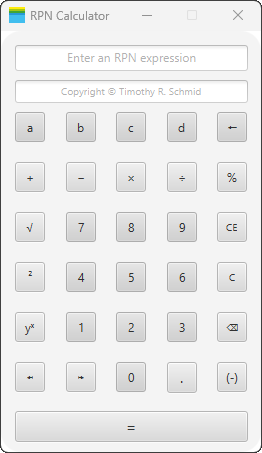
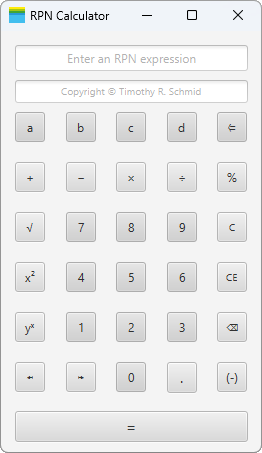
Make '%' distinct from 'mod' and 'rem'

diff --git a/src/test/java/ch/bztf/RPNCalcTest.java b/src/test/java/ch/bztf/RPNCalcTest.java
@@ -91,20 +91,22 @@ public class RPNCalcTest {
 
     @Test
     public void testEvaluatingUnaryExpressionReturnsCorrectResult() throws RPNCalcException {
-        assertEquals(-6.0, calc.eval("6 neg"),    delta);
-        assertEquals( 0.9, calc.eval("-0.9 abs"), delta);
-        assertEquals(25.0, calc.eval("5 pow2"),   delta);
-        assertEquals(12.0, calc.eval("144 sqrt"), delta);
+        assertEquals(-0.01, calc.eval("-1 %"),     delta);
+        assertEquals( -6.0, calc.eval("6 neg"),    delta);
+        assertEquals(  0.9, calc.eval("-0.9 abs"), delta);
+        assertEquals( 25.0, calc.eval("5 pow2"),   delta);
+        assertEquals( 12.0, calc.eval("144 sqrt"), delta);
     }
 
     @Test
     public void testEvaluatingBinaryExpressionReturnsCorrectResult() throws RPNCalcException {
-        assertEquals( 5.0, calc.eval("2 3 +"),   delta);
-        assertEquals(-1.0, calc.eval("2 3 -"),   delta);
-        assertEquals( 1.5, calc.eval("3 2 /"),   delta);
-        assertEquals(12.0, calc.eval("4 3 *"),   delta);
-        assertEquals( 2.0, calc.eval("10 4 %"),  delta);
-        assertEquals( 8.0, calc.eval("2 3 pow"), delta);
+        assertEquals( 5.0, calc.eval("2 3 +"),     delta);
+        assertEquals(-1.0, calc.eval("2 3 -"),     delta);
+        assertEquals( 1.5, calc.eval("3 2 /"),     delta);
+        assertEquals(12.0, calc.eval("4 3 *"),     delta);
+        assertEquals( 3.0, calc.eval("-21 4 mod"), delta);
+        assertEquals(-1.0, calc.eval("-21 4 rem"), delta);
+        assertEquals( 8.0, calc.eval("2 3 pow"),   delta);
     }
 
     @Test
@@ -136,7 +138,7 @@ public class RPNCalcTest {
     public void testEvaluatingExpressionIgnoresExtraneousWhitespace() throws RPNCalcException {
         assertEquals(1.0, calc.eval(" 1 1 *"),         delta); // Leading
         assertEquals(5.0, calc.eval("20 4 / "),        delta); // Trailing
-        assertEquals(1.0, calc.eval(" 11 5 % "),       delta); // Surrounding
+        assertEquals(1.0, calc.eval(" 11 5 rem "),     delta); // Surrounding
         assertEquals(4.0, calc.eval("1024   1020\t-"), delta); // Inbetween
     }
 

diff --git a/src/main/java/ch/bztf/App.java b/src/main/java/ch/bztf/App.java
@@ -57,18 +57,18 @@ public class App extends Application {
     public void start(Stage stage) throws Exception {
 
         /* Load FXML */
-        final FXMLLoader loader = new FXMLLoader(getClass().getResource("/ch/bztf/calc.fxml"));
-        final Parent root = loader.load();
+        FXMLLoader loader = new FXMLLoader(getClass().getResource("/ch/bztf/calc.fxml"));
+        Parent root = loader.load();
 
         /* Inject calculator instance into controller */
-        final CalcController controller = loader.<CalcController>getController();
+        CalcController controller = loader.<CalcController>getController();
         controller.initialize(makeCalcInstance());
 
         /* Enable proportional scaling */
         final double baseWidth = root.prefWidth(-1);
         final double baseHeight = root.prefHeight(-1);
-        final Group scaledGroup = new Group(root);
-        final StackPane scaledRoot = new StackPane(scaledGroup);
+        Group scaledGroup = new Group(root);
+        StackPane scaledRoot = new StackPane(scaledGroup);
         root.scaleXProperty().bind(
             Bindings.min(
                 scaledRoot.widthProperty().divide(baseWidth),
@@ -78,7 +78,7 @@ public class App extends Application {
         root.scaleYProperty().bind(root.scaleXProperty());
 
         /* Set window properties */
-        final Scene scene = new Scene(scaledRoot, baseWidth, baseHeight);
+        Scene scene = new Scene(scaledRoot, baseWidth, baseHeight);
         stage.setScene(scene);
         stage.setTitle("RPN Calculator");
         stage.setResizable(true);
@@ -91,7 +91,7 @@ public class App extends Application {
             new Image(getClass().getResourceAsStream("/ch/bztf/icon-128.png"))
         );
 
-        /* Add extra CSS stylesheets */
+        /* Add custom CSS stylesheet */
         scene.getStylesheets().add(
             getClass().getResource("/ch/bztf/calc.css").toExternalForm()
         );

diff --git a/src/main/java/ch/bztf/RPNCalc.java b/src/main/java/ch/bztf/RPNCalc.java
@@ -257,6 +257,7 @@ public class RPNCalc {
      */
     private boolean isUnary(String op) {
         switch (op) {
+            case "%":
             case "neg":
             case "abs":
             case "pow2":
@@ -280,7 +281,8 @@ public class RPNCalc {
             case "-":
             case "*":
             case "/":
-            case "%":
+            case "mod":
+            case "rem":
             case "pow":
                 return true;
             default:
@@ -344,6 +346,7 @@ public class RPNCalc {
         if (isUnary(op)) {
             Double operand = stack.pop();
             switch (op) {
+                case "%":    return operand / 100.0;
                 case "neg":  return -operand;
                 case "abs":  return Math.abs(operand);
                 case "pow2": return operand * operand;
@@ -357,7 +360,8 @@ public class RPNCalc {
                 case "-": return left - right;
                 case "*": return left * right;
                 case "/": return left / right;
-                case "%": return left % right;
+                case "mod": return left - right * Math.floor(left / right);
+                case "rem": return left % right;
                 case "pow": return Math.pow(left, right);
             }
         } else if (isNAry(op)) {
@@ -469,7 +473,7 @@ public class RPNCalc {
                         stack.push(apply(stack, tokens[i]));   // Apply operator
                     }
                 }
-            } // end for()
+            }
 
         } catch (EmptyStackException e) {
             this.registers = saved_regs;

diff --git a/README.md b/README.md
@@ -85,6 +85,7 @@ N-ary operators consume all values on the stack.
 
 | Operator | Example   | Result | Description    |
 |:--------:|:----------|-------:|:---------------|
+| `%`      | `1 %`     | `0.01` | Percentage     |
 | `neg`    | `94 neg`  |  `-94` | Negation       |
 | `abs`    | `-7 abs`  |    `7` | Absolute value |
 | `pow2`   | `8 pow2`  |   `64` | Square         |
@@ -92,15 +93,16 @@ N-ary operators consume all values on the stack.
 
 #### Binary Operators
 
-| Operator | Example   | Result | Description         |
-|:--------:|:----------|-------:|:--------------------|
-| `+`      | `2 3 +`   |    `5` | Addition            |
-| `-`      | `1 4 -`   |   `-3` | Subtraction         |
-| `*`      | `2 5 *`   |   `10` | Multiplication      |
-| `/`      | `3 2 /`   |  `1.5` | Division            |
-| `%`      | `-21 4 %` |   `-1` | Remainder           |
-| `pow`    | `2 3 pow` |    `8` | Exponentiation      |
-| `<=`     | `17 a <=` |   `17` | Store in register\* |
+| Operator | Example     | Result | Description         |
+|:--------:|:------------|-------:|:--------------------|
+| `+`      | `2 3 +`     |    `5` | Addition            |
+| `-`      | `1 4 -`     |   `-3` | Subtraction         |
+| `*`      | `2 5 *`     |   `10` | Multiplication      |
+| `/`      | `3 2 /`     |  `1.5` | Division            |
+| `mod`    | `-21 4 mod` |    `3` | Modulo              |
+| `rem`    | `-21 4 rem` |   `-1` | Remainder           |
+| `pow`    | `2 3 pow`   |    `8` | Exponentiation      |
+| `<=`     | `17 a <=`   |   `17` | Store in register\* |
 
 #### N-ary Operators
 